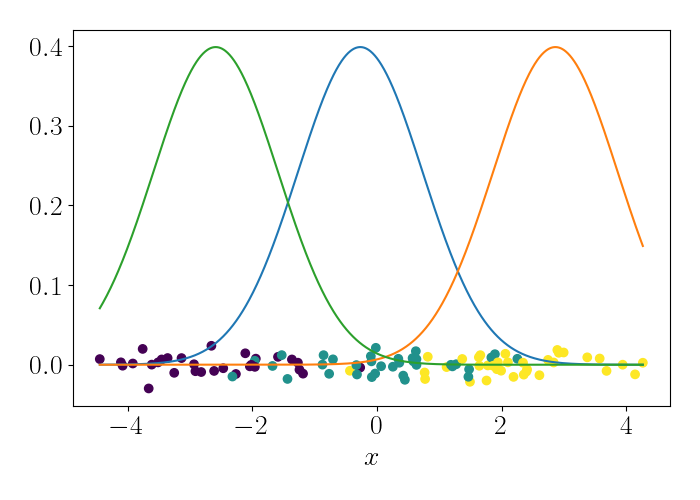
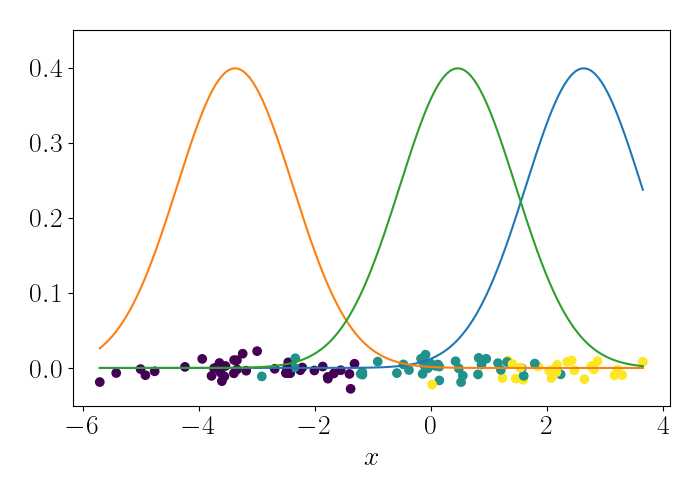
add gif

diff --git a/_posts/2021-04-24-svi.md b/_posts/2021-04-24-svi.md
@@ -2,7 +2,7 @@
 layout: post
 title: "Stochastic variational inference"
 blurb: "Stochastic variational inference (SVI) is a family of methods that exploits stochastic optimization techniques to speed up variational approaches and scale them to large datasets."
-img: ""
+img: "/assets/svi_mixture_gaussians.gif"
 author: "Andy Jones"
 categories: journal
 tags: []
@@ -218,12 +218,21 @@ Suppose we sample data point $x_i$ on an iteration of SVI. The locally-optimized
 
 $$\lambda^{(t)}_{k^\star} = \frac{n}{n + 1} x_i.$$
 
-We can iteratively repeat this process, randomly sampling a data point at each iteration.
+We can iteratively repeat this process, randomly sampling a data point at each iteration. To show this visually, consider the following animation. At the bottom are the data points, and the densities represent the (three) Gaussians. At each iteration, we randomly sample a point, which is shown by the red point. We then update the mean of the Gaussian that endows that point with the highest likelihood. This process is repeated.
+
+<center>
+<img src="/assets/svi_mixture_gaussians.gif" width="500" style="text-align:center; display:block;"/>
+<figcaption><i>Animation of SVI applied to mixture of Gaussians. The red point at each iteration is the randomly sampled data point. We then update the parameters of only one of the mixture components.</i></figcaption>
+</center>
+
+At convergence, we have the following result.
 
 <center>
 <img src="/assets/gaussian_mixture_svi.png" width="500" style="text-align:center; display:block;"/>
 <figcaption><i>SVI in the setting of a mixture of Gaussians. The points are the data samples (with vertical jitter added), and the densities are the fitted mixture components.</i></figcaption>
 </center>
+
+
 
 ## References
 - Hoffman, Matthew D., et al. "Stochastic variational inference." Journal of Machine Learning Research 14.5 (2013).
